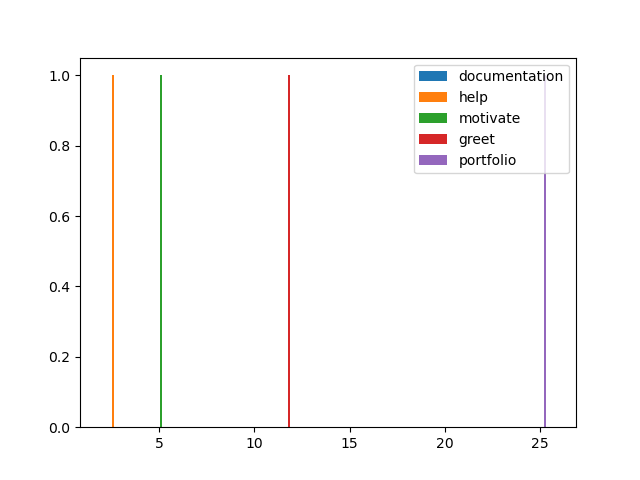
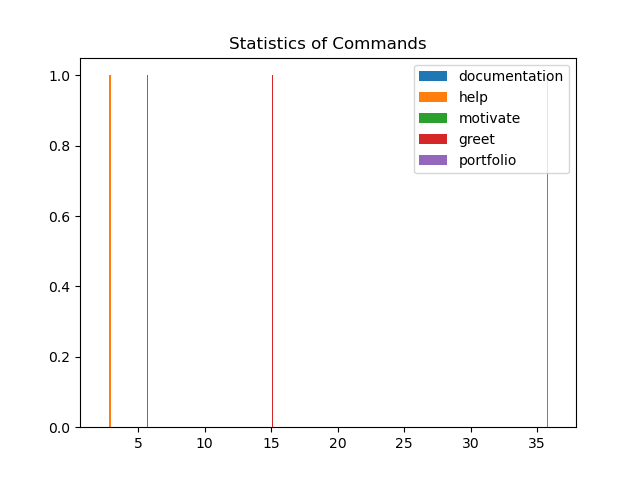
some changes in the usage script and title added in the graph

diff --git a/usage_analysis.py b/usage_analysis.py
@@ -18,6 +18,7 @@ import requests as requests
 import urllib.request
 import os as os
 from matplotlib import pyplot as plt
+import nltk
 
 class Analysis:
   def __init__(self) -> None:
@@ -85,6 +86,7 @@ class Analysis:
       plt.hist((self.command_usage.get("greet") * _LENGTH) / 100)
       plt.hist((self.command_usage.get("portfolio") * _LENGTH) / 100)
       plt.legend(plottable_data_legend)
+      plt.title("Statistics of Commands")
       
       try:
         plt.savefig('commands_usage_plot.png')
@@ -98,7 +100,8 @@ class Analysis:
   def analyzeUserStatus(self):
     pass
   
-if __name__ == '__main__':
+
+def runThisScript():
   analyzer = Analysis()
   print("> RUNNING ANALYZE EVERYTHING METHOD")
   analyzer.analyzeEverything()
@@ -106,3 +109,6 @@ if __name__ == '__main__':
   analyzer.analyzeCommandsUsage()
   print("> RUNNING ANALYZE USER STATUS METHOD")
   analyzer.analyzeUserStatus()
+
+# if __name__ == '__main__':
+#   runThisScript()
